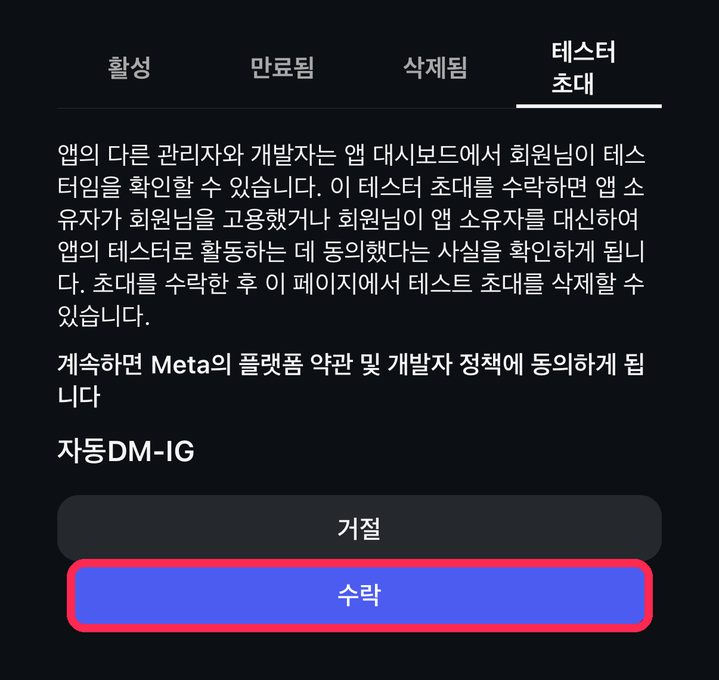
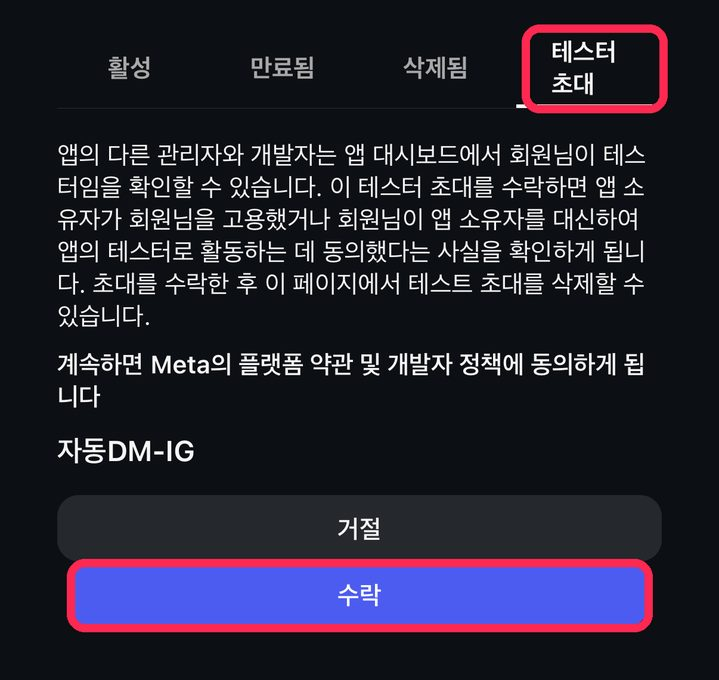
가이드: 3·4번 합치기, 1단계/2단계 색 구역으로 구분, 완료 블록 제거
Claude-Session: https://claude.ai/code/session_019HisJQXF8pQgBJe3A5Xv7W

Changed region(s): [[0.7038, 0.0309, 0.9485, 0.1853]]

diff --git a/guide.html b/guide.html
@@ -31,30 +31,38 @@ details li{font-size:14px;line-height:1.6;color:#7c2d12;margin:3px 0}
 .safe{background:#fff;border-radius:18px;padding:18px 18px 14px;box-shadow:0 1px 2px rgba(0,0,0,.06)}
 .safe h3{margin:0 0 8px;font-size:16px}.safe ul{margin:0;padding-left:18px}.safe li{font-size:14px;line-height:1.65;color:#40434b;margin:4px 0}
 .dm{margin-top:12px;font-size:13.5px;color:#6b6f78;line-height:1.6;text-align:center}
+.stg{border-radius:22px;padding:6px 10px 10px;margin:0 -6px 18px;scroll-margin-top:10px}
+.stg.a{background:#e8f0ff}.stg.b{background:#ffe9f1}
+.stg h2{margin:14px 6px 14px;font-size:20px}.stg h2 em{margin-left:auto;font-style:normal;font-size:13px;font-weight:700;color:#6b6f78}
+.stg.a h2 .t{background:#2563eb}.stg.b h2 .t{background:#e1306c}
+.stg.a .n{background:#2563eb}.stg.b .n{background:#e1306c}
+.bk{margin:4px 2px 4px;background:#2563eb;color:#fff;border-radius:14px;padding:14px;text-align:center;font-weight:800;font-size:15px}
+.map a.a{border:2px solid #2563eb}.map a.b{border:2px solid #e1306c}
+.safe{margin-top:6px}
 </style></head><body><div class="w">
 <h1>인스타 자동 DM 연결하기</h1>
 <p class="lead">카톡 링크 2개를 순서대로 누르면 끝나요. (약 3분)</p>
-<div class="map"><a href="#s1"><i>📩</i>① 초대 수락</a><a href="#s2"><i>🔗</i>② 계정 연결</a><a href="#s3"><i>✅</i>완료</a></div>
-<h2 id="s1"><span class="t">①</span>초대 수락하기</h2><div class="st"><div class="hd"><span class="n">1</span><div><b>카톡 ① 링크 누르기</b></div></div>
+<div class="map"><a href="#s1" class="a"><i>📩</i>1단계 · 초대 수락</a><a href="#s2" class="b"><i>🔗</i>2단계 · 계정 연결</a></div>
+<section class="stg a" id="s1"><h2><span class="t">1단계</span>초대 수락하기<em>카톡 ① 링크</em></h2><div class="st"><div class="hd"><span class="n">1</span><div><b>카톡 ① 링크 누르기</b></div></div>
 <img src="/guide/01.jpg" alt="" loading="lazy"><details><summary>안 되면?</summary><ul><li>인스타 앱이 열려버리면 → 링크를 꾹 눌러 "복사" → 사파리 주소창에 붙여넣기</li></ul></details></div><div class="st"><div class="hd"><span class="n">2</span><div><b>인스타 로그인</b><small>이미 로그인돼 있으면 안 나와요</small></div></div>
-<img src="/guide/02.jpg" alt="" loading="lazy"><details><summary>안 되면?</summary><ul><li>비밀번호가 기억 안 나면 → "비밀번호를 잊으셨나요?"로 먼저 재설정</li></ul></details></div><div class="st"><div class="hd"><span class="n">3</span><div><b>'테스터 초대' 누르기</b></div></div>
-<img src="/guide/03.jpg" alt="" loading="lazy"><details><summary>안 되면?</summary><ul><li>다른 계정으로 로그인돼 있으면 초대가 안 보여요 → 로그아웃 후 연결할 계정으로 다시 로그인</li></ul></details></div><div class="st"><div class="hd"><span class="n">4</span><div><b>'수락' 누르기</b><small>다 하면 카톡으로 돌아가요</small></div></div>
-<img src="/guide/04.jpg" alt="" loading="lazy"><details><summary>안 되면?</summary><ul><li>"자동DM-IG"가 안 보이면 → 초대가 아직 안 온 거예요. 관리자에게 내 인스타 아이디를 알려주세요.</li></ul></details></div>
-<h2 id="s2"><span class="t">②</span>계정 연결하기</h2><div class="st"><div class="hd"><span class="n">5</span><div><b>카톡 ② 링크 누르기</b></div></div>
-<img src="/guide/05.jpg" alt="" loading="lazy"><details><summary>안 되면?</summary><ul><li>"잘못된 링크예요"가 뜨면 → 관리자에게 메시지를 다시 받아주세요.</li></ul></details></div><div class="st"><div class="hd"><span class="n">6</span><div><b>'Instagram으로 계속하기'</b><small>Facebook 말고 Instagram!</small></div></div>
-<img src="/guide/06.jpg" alt="" loading="lazy"><details><summary>안 되면?</summary><ul><li>"앱이 비활성 상태" / "사용할 수 없는 기능"이 뜨면 → 1~4번 수락이 안 된 거예요. 1번부터 다시 해주세요.</li></ul></details></div>
-<details class="cre"><summary>개인 계정이면 여기서 5개 화면이 더 나와요<small>눌러서 보기 · 안 나오면 건너뛰세요</small></summary><div><div class="st"><div class="hd"><span class="n">7</span><div><b>'크리에이터' → '다음'</b></div></div>
-<img src="/guide/07.jpg" alt="" loading="lazy"><details><summary>안 되면?</summary><ul><li>이 화면이 안 나오면 → 이미 크리에이터/비즈니스 계정이에요. 12번으로 건너뛰세요.</li><li>실수로 "비즈니스"를 골라도 괜찮아요. 그대로 진행하면 돼요.</li></ul></details></div><div class="st"><div class="hd"><span class="n">8</span><div><b>'다음'</b></div></div>
-<img src="/guide/08.jpg" alt="" loading="lazy"></div><div class="st"><div class="hd"><span class="n">9</span><div><b>'건강/뷰티' → '완료'</b></div></div>
-<img src="/guide/09.jpg" alt="" loading="lazy"><details><summary>안 되면?</summary><ul><li>목록에 안 보이면 → 위쪽 검색창에 "건강" 입력. 다른 카테고리를 골라도 연결엔 문제없어요.</li></ul></details></div><div class="st"><div class="hd"><span class="n">10</span><div><b>'계속하기'</b><small>비공개 계정은 공개로 바뀌어요</small></div></div>
-<img src="/guide/10.jpg" alt="" loading="lazy"><details><summary>안 되면?</summary><ul><li>"취소"를 눌렀다면 → 카톡 ② 링크를 다시 누르면 처음부터 다시 나와요.</li></ul></details></div><div class="st"><div class="hd"><span class="n">11</span><div><b>'완료'</b><small>팔로워·게시물은 그대로예요</small></div></div>
+<img src="/guide/02.jpg" alt="" loading="lazy"><details><summary>안 되면?</summary><ul><li>비밀번호가 기억 안 나면 → "비밀번호를 잊으셨나요?"로 먼저 재설정</li></ul></details></div><div class="st"><div class="hd"><span class="n">3</span><div><b>'테스터 초대' → '수락'</b><small>위쪽 탭을 누르면 '수락' 버튼이 나와요</small></div></div>
+<img src="/guide/04.jpg" alt="" loading="lazy"><details><summary>안 되면?</summary><ul><li>다른 계정으로 로그인돼 있으면 초대가 안 보여요 → 로그아웃 후 연결할 계정으로 다시 로그인</li><li>"자동DM-IG"가 안 보이면 → 초대가 아직 안 온 거예요. 관리자에게 내 인스타 아이디를 알려주세요.</li></ul></details></div>
+<div class="bk">✅ 1단계 끝! 카톡으로 돌아가서 ② 링크를 눌러요</div></section>
+<section class="stg b" id="s2"><h2><span class="t">2단계</span>계정 연결하기<em>카톡 ② 링크</em></h2><div class="st"><div class="hd"><span class="n">4</span><div><b>카톡 ② 링크 누르기</b></div></div>
+<img src="/guide/05.jpg" alt="" loading="lazy"><details><summary>안 되면?</summary><ul><li>"잘못된 링크예요"가 뜨면 → 관리자에게 메시지를 다시 받아주세요.</li></ul></details></div><div class="st"><div class="hd"><span class="n">5</span><div><b>'Instagram으로 계속하기'</b><small>Facebook 말고 Instagram!</small></div></div>
+<img src="/guide/06.jpg" alt="" loading="lazy"><details><summary>안 되면?</summary><ul><li>"앱이 비활성 상태" / "사용할 수 없는 기능"이 뜨면 → 1단계(초대 수락)가 안 된 거예요. 1단계부터 다시 해주세요.</li></ul></details></div>
+<details class="cre"><summary>개인 계정이면 여기서 5개 화면이 더 나와요<small>눌러서 보기 · 안 나오면 건너뛰세요</small></summary><div><div class="st"><div class="hd"><span class="n">6</span><div><b>'크리에이터' → '다음'</b></div></div>
+<img src="/guide/07.jpg" alt="" loading="lazy"><details><summary>안 되면?</summary><ul><li>이 화면이 안 나오면 → 이미 크리에이터/비즈니스 계정이에요. 이 부분은 건너뛰세요.</li><li>실수로 "비즈니스"를 골라도 괜찮아요. 그대로 진행하면 돼요.</li></ul></details></div><div class="st"><div class="hd"><span class="n">7</span><div><b>'다음'</b></div></div>
+<img src="/guide/08.jpg" alt="" loading="lazy"></div><div class="st"><div class="hd"><span class="n">8</span><div><b>'건강/뷰티' → '완료'</b></div></div>
+<img src="/guide/09.jpg" alt="" loading="lazy"><details><summary>안 되면?</summary><ul><li>목록에 안 보이면 → 위쪽 검색창에 "건강" 입력. 다른 카테고리를 골라도 연결엔 문제없어요.</li></ul></details></div><div class="st"><div class="hd"><span class="n">9</span><div><b>'계속하기'</b><small>비공개 계정은 공개로 바뀌어요</small></div></div>
+<img src="/guide/10.jpg" alt="" loading="lazy"><details><summary>안 되면?</summary><ul><li>"취소"를 눌렀다면 → 카톡 ② 링크를 다시 누르면 처음부터 다시 나와요.</li></ul></details></div><div class="st"><div class="hd"><span class="n">10</span><div><b>'완료'</b><small>팔로워·게시물은 그대로예요</small></div></div>
 <img src="/guide/11.jpg" alt="" loading="lazy"></div></div></details>
-<div class="st"><div class="hd"><span class="n">12</span><div><b>내 아이디 버튼 누르기</b><small>다른 아이디면 아래 '계정 전환'</small></div></div>
-<img src="/guide/12.jpg" alt="" loading="lazy"><details><summary>안 되면?</summary><ul><li>다른 아이디가 적혀 있으면 → 아래 "계정 전환"을 눌러 연결할 계정으로 바꿔요.</li></ul></details></div><div class="st"><div class="hd"><span class="n">13</span><div><b>'Continue'</b><small>영어 화면이어도 괜찮아요</small></div></div>
-<img src="/guide/13.jpg" alt="" loading="lazy"><details><summary>안 되면?</summary><ul><li>"Instagram Accounts" 칸이 비어 있으면 → 칸의 ▼를 눌러 내 계정 선택</li><li>"Business Portfolio" 칸이 비어 있으면 → ▼ 눌러 새로 만들기, 이름은 내 이름으로</li></ul></details></div><div class="st"><div class="hd"><span class="n">14</span><div><b>'Save'</b><small>광고비가 나가는 일은 없어요</small></div></div>
-<img src="/guide/14.jpg" alt="" loading="lazy"></div><div class="st"><div class="hd"><span class="n">15</span><div><b>'연결 완료!' 나오면 끝</b></div></div>
-<img src="/guide/15.jpg" alt="" loading="lazy"><details><summary>안 되면?</summary><ul><li>"링크가 만료됐어요"가 뜨면 → 10분이 지난 거예요. 카톡 ② 링크를 다시 눌러주세요.</li><li>"연결이 안 됐어요"가 뜨면 → 1~4번 수락을 먼저 하고 ② 링크를 다시 눌러주세요.</li><li>연결은 됐는데 DM이 안 나가면 → 인스타 설정 → 메시지 및 스토리 답장 → 메시지 컨트롤 → "연결된 도구" 허용 켜기</li><li>그래도 안 되면 → 화면을 캡처해서 관리자에게 보내주세요.</li></ul></details></div>
-<div class="done" id="s3"><b>🎉 연결 끝!</b><p>이제 정한 게시물에 키워드 댓글이 달리면<br>자동으로 DM이 나가요.</p></div>
+<div class="st"><div class="hd"><span class="n">11</span><div><b>내 아이디 버튼 누르기</b><small>다른 아이디면 아래 '계정 전환'</small></div></div>
+<img src="/guide/12.jpg" alt="" loading="lazy"><details><summary>안 되면?</summary><ul><li>다른 아이디가 적혀 있으면 → 아래 "계정 전환"을 눌러 연결할 계정으로 바꿔요.</li></ul></details></div><div class="st"><div class="hd"><span class="n">12</span><div><b>'Continue'</b><small>영어 화면이어도 괜찮아요</small></div></div>
+<img src="/guide/13.jpg" alt="" loading="lazy"><details><summary>안 되면?</summary><ul><li>"Instagram Accounts" 칸이 비어 있으면 → 칸의 ▼를 눌러 내 계정 선택</li><li>"Business Portfolio" 칸이 비어 있으면 → ▼ 눌러 새로 만들기, 이름은 내 이름으로</li></ul></details></div><div class="st"><div class="hd"><span class="n">13</span><div><b>'Save'</b><small>광고비가 나가는 일은 없어요</small></div></div>
+<img src="/guide/14.jpg" alt="" loading="lazy"></div><div class="st"><div class="hd"><span class="n">14</span><div><b>'연결 완료!' 나오면 끝</b></div></div>
+<img src="/guide/15.jpg" alt="" loading="lazy"><details><summary>안 되면?</summary><ul><li>"링크가 만료됐어요"가 뜨면 → 10분이 지난 거예요. 카톡 ② 링크를 다시 눌러주세요.</li><li>"연결이 안 됐어요"가 뜨면 → 1단계(초대 수락)를 먼저 하고 ② 링크를 다시 눌러주세요.</li><li>연결은 됐는데 DM이 안 나가면 → 인스타 설정 → 메시지 및 스토리 답장 → 메시지 컨트롤 → "연결된 도구" 허용 켜기</li><li>그래도 안 되면 → 화면을 캡처해서 관리자에게 보내주세요.</li></ul></details></div>
+</section>
 <div class="safe"><h3>개인정보 및 보안 안내</h3><ul>
 <li>비밀번호는 인스타그램(Meta) 공식 화면에서만 입력되며, 저희에게 전달되지 않습니다.</li>
 <li>받으신 DM 내용은 저희가 읽을 수 없으며, DM을 읽는 기능 자체를 만들지 않았습니다.</li>
